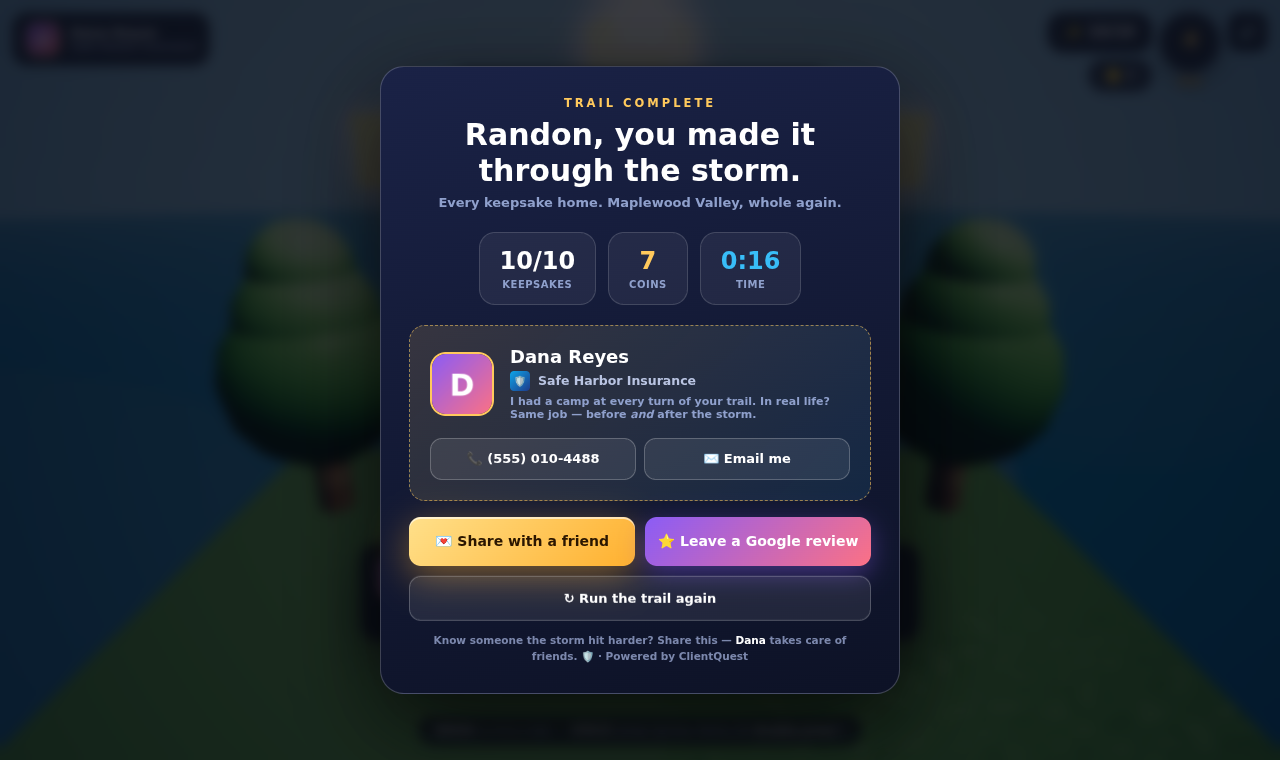
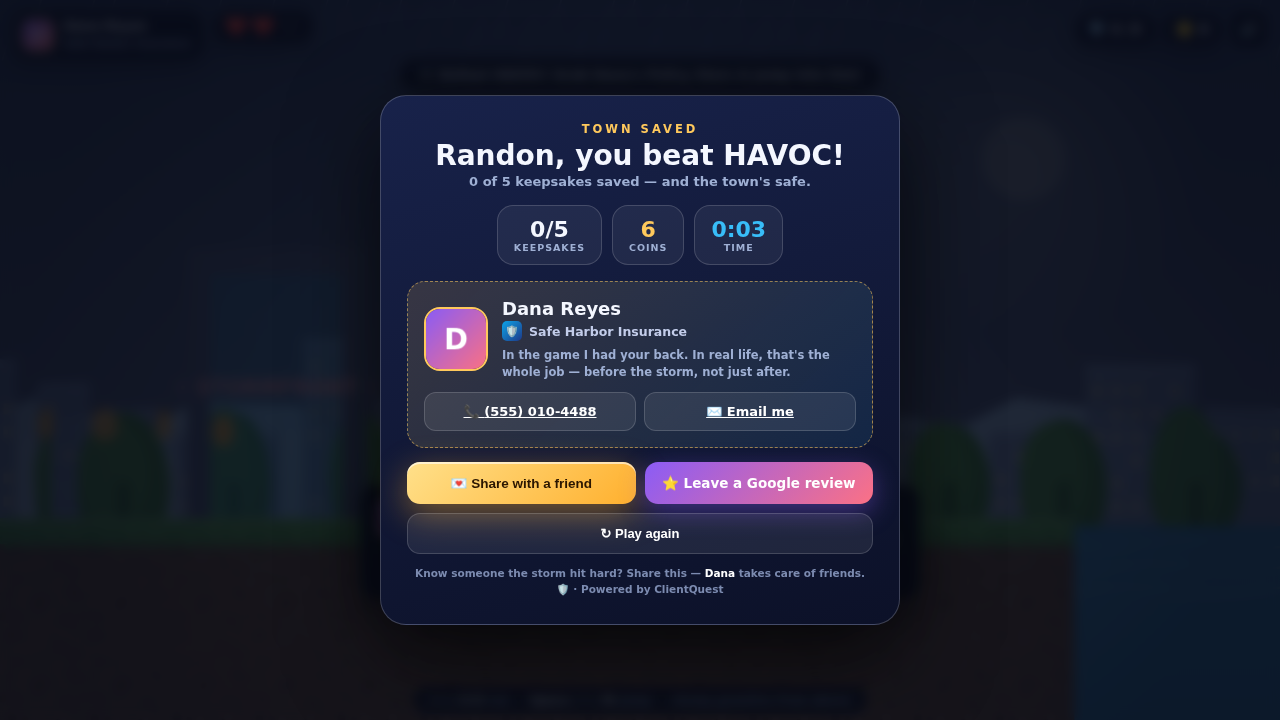
Finish COVERED: Run for Cover — full playthrough verified; refresh site copy
- Fix enemy stomp: key on "came from above last frame" (h.prevBottom) instead
  of instantaneous velocity, so a fast fall reliably stomps instead of taking
  a hit; hero bounces cleanly.
- Full deterministic playthrough test passes: 5/5 keepsakes, camp shield,
  camp raft-bridge reveal, flood-pit respawn with heart loss, enemy stomp,
  3-hit boss defeat via agent's Policy Stars, and the win/contact-card screen.
- Refresh promo screenshots (2D title, mid-level, end card) and update the
  landing page, profession pages, and README to describe the 2D arcade
  platformer (was still describing the removed 3D Babylon build).

Claude-Session: https://claude.ai/code/session_019mUjTR5nXbR8se7PR1ovbY

diff --git a/index.html b/index.html
@@ -90,17 +90,17 @@
         <img src="assets/covered-end.png" alt="COVERED ending — agent contact card with review and share buttons">
       </div>
       <div>
-        <div class="kicker">🛡 New · Full 3D · Playable now</div>
-        <h2>COVERED<br><span style="font-size:.55em;color:var(--muted)">Storm Trail — a 3D Platform Adventure</span></h2>
-        <p><b>A Crash-style 3D platformer.</b> The flood washed your neighbors' keepsakes down Maplewood Valley — run, jump, and bounce through three worlds of stepping stones, rooftops and sky islands to bring all 10 home, while your insurance agent camps along the trail: coaching by radio, unlocking your double jump, even lowering a drawbridge when you need it.</p>
+        <div class="kicker">🛡 New · Arcade platformer · Playable now</div>
+        <h2>COVERED<br><span style="font-size:.55em;color:var(--muted)">Run for Cover — an Arcade Adventure</span></h2>
+        <p><b>A Super Mario-style side-scroller.</b> A superstorm hit town and <b>HAVOC the storm gremlin</b> is trashing the place for fun. Run, jump, and stomp through the flooded neighborhood, rescue 5 keepsakes, and take Havoc down in a boss fight — where your insurance agent tosses you Policy Stars to land the winning hits.</p>
         <ul class="feat-list">
-          <li>Babylon.js rendering: bloom, soft shadows, glow, ACES color — cartoon-real</li>
-          <li>Tight platforming: coyote time, jump buffering, variable-height &amp; double jumps</li>
-          <li>One stick + one button on mobile; WASD + Space on desktop</li>
-          <li>Checkpoint camps, bounce pads, moving platforms, splash-and-retry water</li>
+          <li>Hand-drawn Canvas graphics: layered parallax town, animated water, storm weather</li>
+          <li>Tight platforming — coyote time, jump buffering, variable-height jumps, enemy stomps</li>
+          <li>A real villain + boss fight the agent helps you win</li>
+          <li>Loads instantly, zero dependencies — perfect to text or email to a client</li>
           <li>Agent-branded open &amp; close — uploadable headshot, logo, call/email/review/share</li>
         </ul>
-        <a class="btn btn-gold" href="games/insurance/covered/index.html">🛡 Play COVERED in 3D</a>
+        <a class="btn btn-gold" href="games/insurance/covered/index.html">🛡 Play COVERED</a>
       </div>
     </div>
   </div>

diff --git a/professions/insurance-agents.html b/professions/insurance-agents.html
@@ -41,8 +41,8 @@
     </div>
     <div class="grid cols2">
       <div class="card game-card reveal">
-        <div class="gtop"><span class="ge">🛡</span><div><div class="arch">🗺 Adventure Quest</div><h3>Covered: Storm Trail</h3></div></div>
-        <p>A Crash-style 3D platformer: the flood washed ten keepsakes down Maplewood Valley. Run, double-jump and bounce through three worlds to bring them home — your agent camps along the trail, coaching by radio, unlocking abilities and turning every find into a real recovery.</p>
+        <div class="gtop"><span class="ge">🛡</span><div><div class="arch">🗺 Adventure Quest</div><h3>Covered: Run for Cover</h3></div></div>
+        <p>A Super Mario-style arcade platformer: a superstorm hit town and HAVOC the storm gremlin is trashing it for fun. Run, jump and stomp through the flooded neighborhood, rescue 5 keepsakes, and beat Havoc in a boss fight where your agent tosses you Policy Stars to land the winning hits.</p>
         <div class="status"><span class="pill-live">▶ PLAYABLE NOW</span>
         <div style="margin-top:12px"><a class="btn btn-gold btn-sm" href="../games/insurance/covered/index.html">▶ Play now</a></div></div>
       </div>

diff --git a/games/insurance/covered/index.html b/games/insurance/covered/index.html
@@ -718,9 +718,9 @@ const Game={
     /* --- enemies --- */
     for(const e of LEVEL.enemies){ if(!e.alive){ e.squash=Math.max(0,e.squash-dt*3); continue; }
       e.x+=e.dir*74*dt; if(e.x<e.x0){e.x=e.x0;e.dir=1;} if(e.x>e.x1){e.x=e.x1;e.dir=-1;} e.ph+=dt*7;
-      // collision
-      if(Math.abs(e.x-h.x)<28 && h.y>e.y-40 && h.y-h.h<e.y){
-        if(h.vy>0 && h.prevBottom<=e.y-18){ e.alive=false; e.squash=1; h.vy=-560; h.jumpCut=true; SFX.stomp();
+      // collision — stomp if you came from above the enemy this frame, else take a hit
+      if(Math.abs(e.x-h.x)<30 && h.y>e.y-46 && h.y-h.h<e.y){
+        if(h.prevBottom<=e.y-8){ e.alive=false; e.squash=1; h.vy=-580; h.grounded=false; h.jumpCut=true; SFX.stomp();
           this.pop(e.x,e.y-16,'#8899bb',12); this.coins+=2; UI.coin(this.coins); }
         else this.hurtHero(h.x<e.x?-1:1);
       } }

diff --git a/README.md b/README.md
@@ -33,19 +33,18 @@ A top-down open-neighborhood action-adventure. **You are the house hunter.** You
 
 Zero dependencies. One self-contained HTML file. Keyboard + touch.
 
-## 🛡 NEW — COVERED: Storm Trail (fully 3D, playable now)
+## 🛡 NEW — COVERED: Run for Cover (2D arcade platformer, playable now)
 
-A **Crash Bandicoot-style 3D platform adventure** built on **Babylon.js** (vendored, no CDN). The client is the hero on a linear trail through a flooded valley; the insurance agent has camps along the way and *actually helps* — coaching by radio, unlocking the double jump, lowering a drawbridge to the final world.
+A **Super Mario-style side-scrolling arcade adventure** — pure Canvas 2D, **zero dependencies**, one self-contained ~40KB file that loads instantly on phone or desktop and is easy to text or email to a client.
 
-- **Three worlds** — Maple Shallows (stepping stones over the flood), Rooftop Rapids (sunken-house roofs, bounce pads, a narrow plank bridge), Sky Court (floating stones, moving platforms, the golden arch)
-- **Tight, forgiving controls** — coyote time, jump buffering, variable-height jumps, double jump, squash-and-stretch, landing dust; falling in water just splashes you back to the last camp
-- **One stick + one button** on mobile; **WASD/arrows + Space** on desktop — nothing else to learn
-- **Cartoon-real rendering** — bloom, ACES tone mapping, soft shadows, glow layer, animated water, drifting clouds, hand-drawn canvas textures (grass, shingles, planks, stone)
-- **10 keepsakes + coin trails** — each keepsake is a neighbor's story the agent turns into a real insurance recovery; a compass points to the nearest one
-- **Professional branding, uploadable** — headshot + logo uploads, name/firm/phone/email/review link (localStorage + URL params `?agent=…&firm=…&phone=…&review=…`); the firm opens the game, and the ending shows the agent's photo, logo and contact card with **Call / Email / Leave a Google review / Share with a friend**
-- `covered-standalone.html` — single-file build (~4.8MB, Babylon inlined) for hosting or sending as one attachment
-
-Vendored libraries: `games/insurance/covered/vendor/babylon.js` (Babylon.js 5.57), `vendor/tailwind.js` (Tailwind browser build).
+- **Story with a villain:** a superstorm hit town and **HAVOC the Storm Gremlin** is trashing it for fun. Race through the flooded neighborhood, rescue **5 keepsakes**, and defeat Havoc.
+- **The agent helps you win:** in the boss fight your insurance agent tosses **Policy Stars** that empower you to land the three winning hits — the professional literally helps you beat the antagonist.
+- **Robust platforming:** run/jump with coyote time, jump buffering, variable-height jumps, enemy stomps, moving platforms, flood pits with checkpoint respawn, hail, fire, coins, hearts.
+- **Refined, nuanced background:** layered parallax (sun/glow, hills, town skyline, drifting clouds, tree line), grass-and-dirt ground, animated flood water, storm weather that ramps across three acts, lightning, vignette.
+- **Agent prominent at open & close:** firm-branded title screen; finish card with the agent's photo, logo, name, firm and **Call / Email / Leave a Google review / Share with a friend**.
+- **Customizable hero** (name entry) + **uploadable agent branding** (headshot, logo, contact, review link; localStorage + URL params `?agent=…&firm=…&phone=…&review=…`).
+- **Controls:** WASD/arrows + Space on desktop; on-screen left/right + jump on touch.
+- **Theme-driven engine** (a `THEME` config block) so the same code re-skins for realtors, lawyers and dentists next — swap villain, palette, dialogue and items.
 
 ## Running the site
 
@@ -65,7 +64,7 @@ css/site.css                   Shared site styles
 js/site.js                     Scroll-reveal behavior
 professions/*.html             Four profession hubs (4 games each)
 games/realtor/keys/index.html  KEYS — flagship adventure (self-contained)
-games/insurance/covered/       COVERED: Storm Trail — 3D platformer (Babylon.js)
+games/insurance/covered/index.html  COVERED: Run for Cover — 2D arcade platformer (Canvas, no deps)
 assets/                        Gameplay screenshots used as promo art
 ```
 
